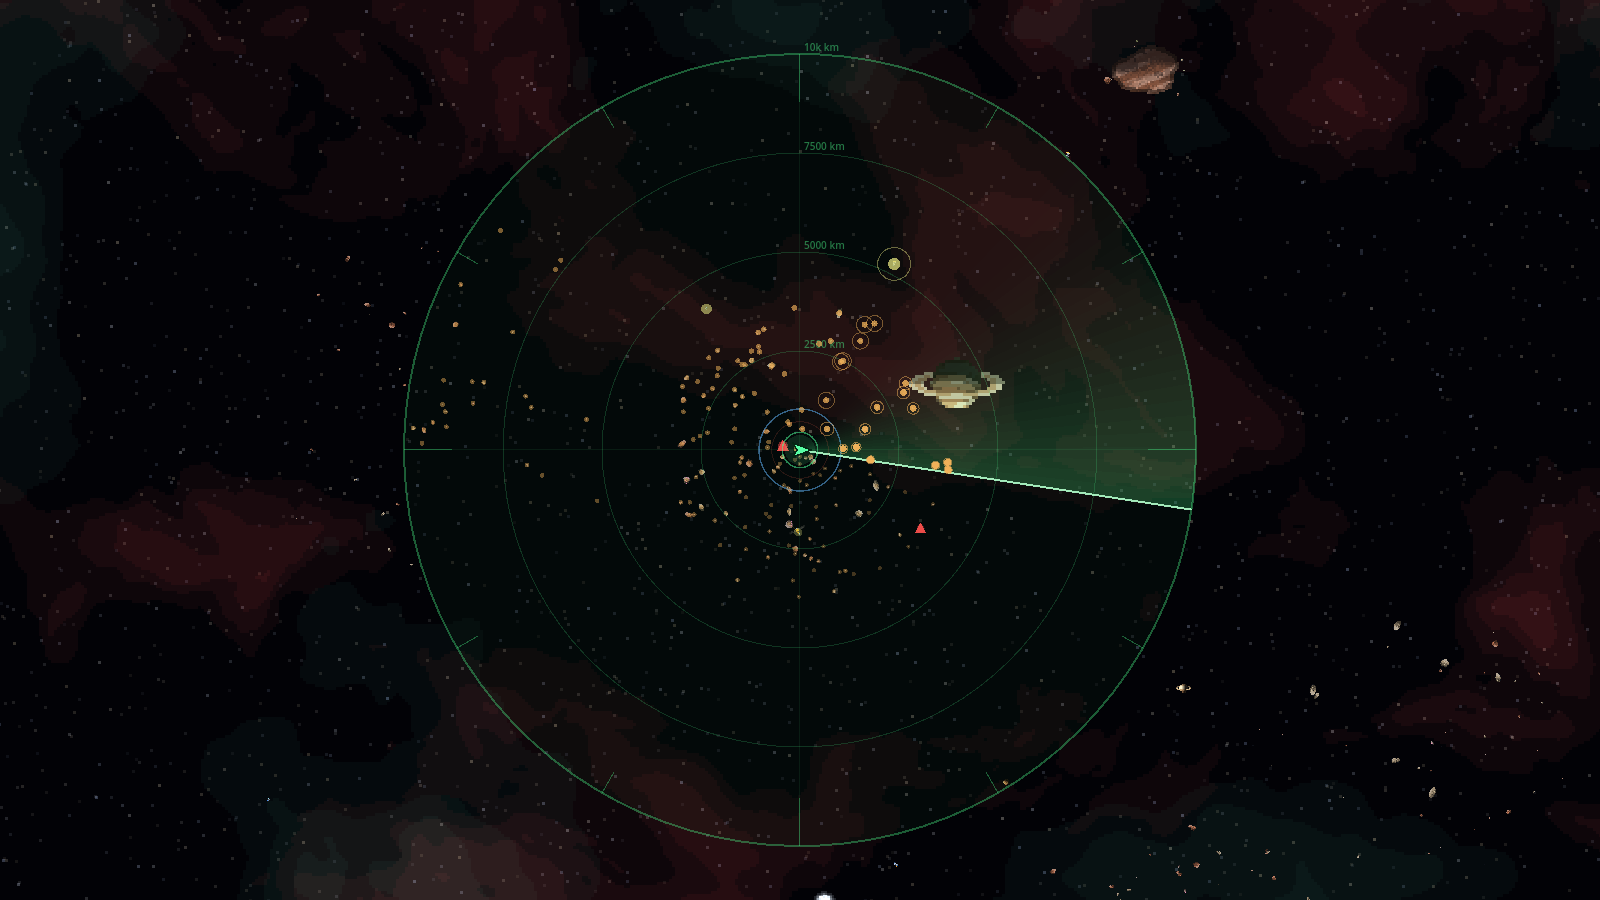
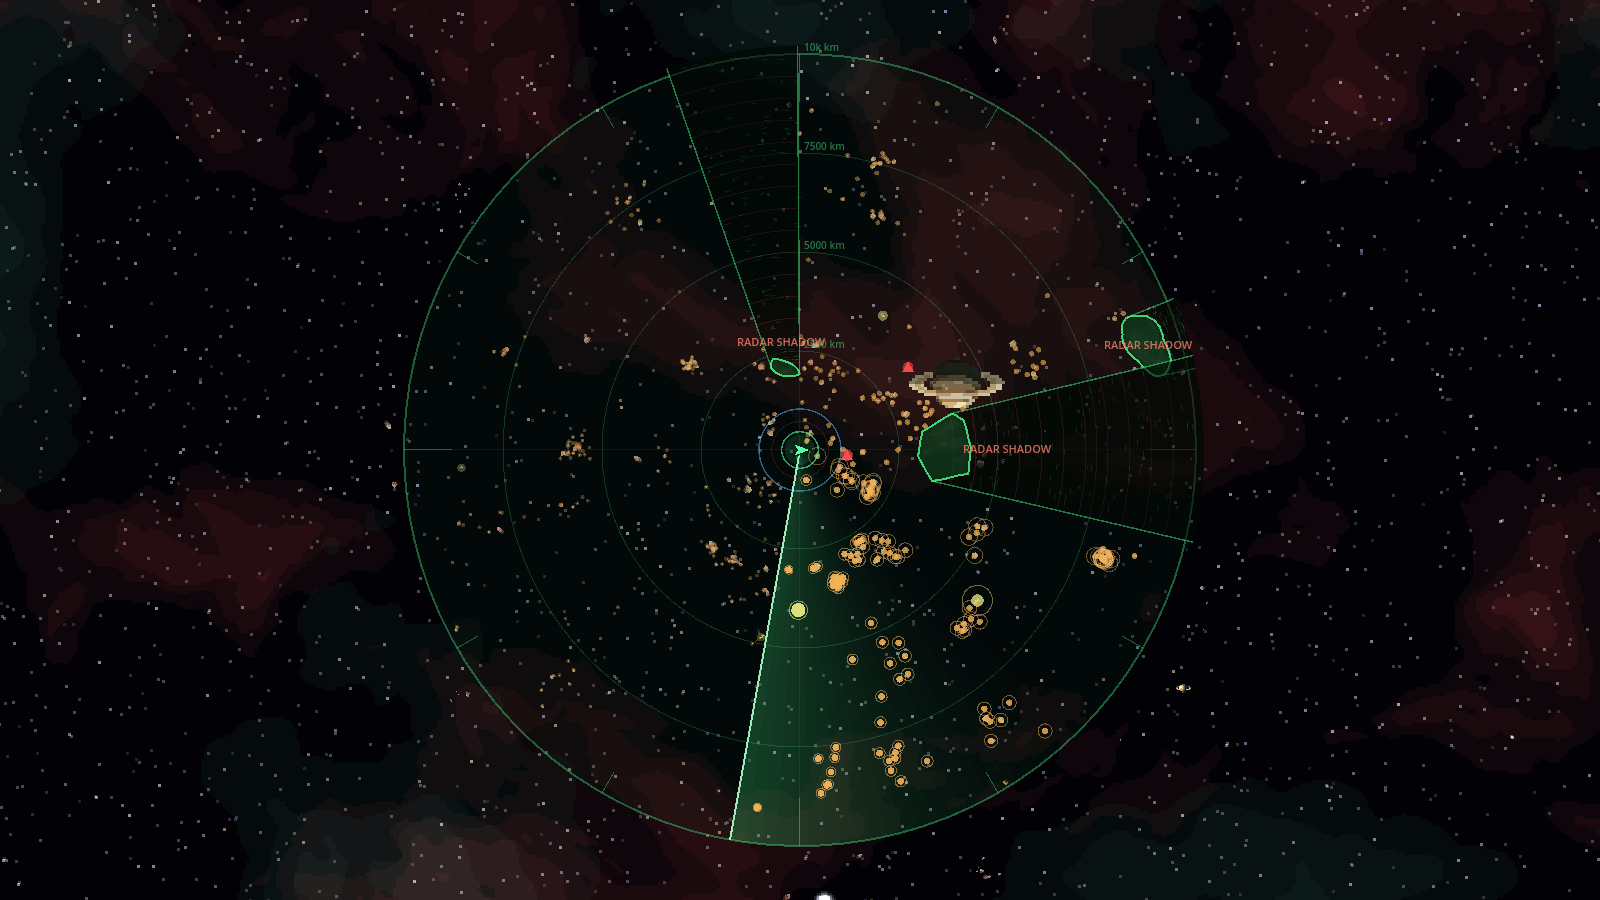
alpha 0.6.35.4: compact structured asteroid fields, more colossi

diff --git a/Roadmap.md b/Roadmap.md
@@ -17,7 +17,7 @@ Sternenfront ist ein Einzelspieler-Spiel mit zuschaltbarem Koop – wie Valheim 
 
 ## Aktueller Stand
 
-Das Spiel ist ein umfangreicher Einzelspieler-Prototyp in Godot 4.3. Phase 0 und Phase 0.5 Teil 1 bis 3 sind abgeschlossen; Teil 4 (Module and Internal Ship Parts Rework) läuft – Pakete 19 bis 24 fertig, Pakete 25a (KHI-Bergbauschiffe), 25b (Kanayama-maru), 25c (Maison Aurelle), 25d (Hadrian Dynamics), 25e (Concord Fleetworks), 25f (Forge of Return) und 25g (Axiom Astronautics) fertig – damit sind alle Manufakturen gebaut; Paket 26 (Stationstyp 0: Raststationen mit Landeplattformen) fertig; Paket 27 (Stationsübersicht, Ausrüster, Kurzbeschreibungen, Geschwindigkeit) fertig – damit sind alle Pakete von Teil 4 umgesetzt. Code-Review von Teil 4 gemacht (Bericht `reviews/teil4_review.md`), alle Befunde sind abgearbeitet (0.4.25.46 und 0.4.25.47) – Teil 4 abgeschlossen. **Teil 5 läuft:** Paket 28a (Audio-Grundgerüst), die Menüsteuerung per Tastatur und Paket 28 (Pilot & Charaktererstellung) und Paket 29 (Fähigkeiten + Pilot-Fenster) fertig, Fortschritts-Mechanik am 7. Nov neu entschieden (Fähigkeiten automatisch, Pilotenlevel, Perks, Skilltree über Leistungen); Paket 30 (Perks, Skilltree über Leistungen, Baupläne) fertig und der Skilltree in 0.5.30.2 als gezeichneter Baum nach Tätigkeiten neu gebaut (alles kaufbar, nutzbar erst mit Kachel), Paket 31 (Crew-System & The Bar, mit 32 zusammengelegt) fertig, Paket 31a (Game Over: Rettungskapseln, Rückkauf, Respawn) fertig, Paket 33 (Wingmen und Citadel-Plattform) fertig, Paket 34 (Codex-Einträge, Sammlung, berüchtigte Piraten als Charaktere mit Wild-West-Steckbrief) fertig – damit sind alle Pakete von Teil 5 umgesetzt. Code-Review von Teil 5 gemacht (Bericht `reviews/teil5_review.md`), alle Befunde in 0.5.34.4 behoben – **Teil 5 abgeschlossen**. **Teil 6 läuft:** Paket 35 (Systeme ×3, Asteroiden- und Kuipergürtel, neue Asteroidenfelder, mehr Verkehr, Ladebildschirm und Vorladen) fertig. Netzwerk fehlt noch. Teile 5–9 sind geplant (aus dem Roadmap-Entwurf übernommen, zuletzt am 7. Nov 2026: Teile 8 und 9, Audio-Grundgerüst 28a, Lade-Grundlagen in Paket 35, Code-Review am Ende jedes Teils), Phase 1 und 2 getauscht (erst Story & Endgame, dann Koop). Version alpha 0.6.35.3. Stand 8. November 2026.
+Das Spiel ist ein umfangreicher Einzelspieler-Prototyp in Godot 4.3. Phase 0 und Phase 0.5 Teil 1 bis 3 sind abgeschlossen; Teil 4 (Module and Internal Ship Parts Rework) läuft – Pakete 19 bis 24 fertig, Pakete 25a (KHI-Bergbauschiffe), 25b (Kanayama-maru), 25c (Maison Aurelle), 25d (Hadrian Dynamics), 25e (Concord Fleetworks), 25f (Forge of Return) und 25g (Axiom Astronautics) fertig – damit sind alle Manufakturen gebaut; Paket 26 (Stationstyp 0: Raststationen mit Landeplattformen) fertig; Paket 27 (Stationsübersicht, Ausrüster, Kurzbeschreibungen, Geschwindigkeit) fertig – damit sind alle Pakete von Teil 4 umgesetzt. Code-Review von Teil 4 gemacht (Bericht `reviews/teil4_review.md`), alle Befunde sind abgearbeitet (0.4.25.46 und 0.4.25.47) – Teil 4 abgeschlossen. **Teil 5 läuft:** Paket 28a (Audio-Grundgerüst), die Menüsteuerung per Tastatur und Paket 28 (Pilot & Charaktererstellung) und Paket 29 (Fähigkeiten + Pilot-Fenster) fertig, Fortschritts-Mechanik am 7. Nov neu entschieden (Fähigkeiten automatisch, Pilotenlevel, Perks, Skilltree über Leistungen); Paket 30 (Perks, Skilltree über Leistungen, Baupläne) fertig und der Skilltree in 0.5.30.2 als gezeichneter Baum nach Tätigkeiten neu gebaut (alles kaufbar, nutzbar erst mit Kachel), Paket 31 (Crew-System & The Bar, mit 32 zusammengelegt) fertig, Paket 31a (Game Over: Rettungskapseln, Rückkauf, Respawn) fertig, Paket 33 (Wingmen und Citadel-Plattform) fertig, Paket 34 (Codex-Einträge, Sammlung, berüchtigte Piraten als Charaktere mit Wild-West-Steckbrief) fertig – damit sind alle Pakete von Teil 5 umgesetzt. Code-Review von Teil 5 gemacht (Bericht `reviews/teil5_review.md`), alle Befunde in 0.5.34.4 behoben – **Teil 5 abgeschlossen**. **Teil 6 läuft:** Paket 35 (Systeme ×3, Asteroiden- und Kuipergürtel, neue Asteroidenfelder, mehr Verkehr, Ladebildschirm und Vorladen) fertig. Netzwerk fehlt noch. Teile 5–9 sind geplant (aus dem Roadmap-Entwurf übernommen, zuletzt am 7. Nov 2026: Teile 8 und 9, Audio-Grundgerüst 28a, Lade-Grundlagen in Paket 35, Code-Review am Ende jedes Teils), Phase 1 und 2 getauscht (erst Story & Endgame, dann Koop). Version alpha 0.6.35.4. Stand 8. November 2026.
 
 | Bereich | Stand |
 | --- | --- |
@@ -1459,6 +1459,7 @@ Jedes Paket mit eigenen Debug-Funktionen (z. B. zu jedem Systemtyp springen, Ste
 - [x] **Systeme ×3:** Radius 6 Mio. km (Tore bei 5,7 Mio.), Planetenbahnen, Anomalien, Havens, Wegstationen und Spawnpunkte mitskaliert (`Universe.SCALE`); Warp-Grundtempo 150.000 → 240.000 km/s – ein Warp quer durchs System dauert etwa 20–30 s.
 - [x] **Asteroidengürtel** (80 % der Systeme, zwischen den Gesteinsplaneten und dem ersten Gasriesen) und **Kuipergürtel** (70 %, außen bei ~84 % des Radius): auf der Systemkarte als Band aus feinen Körnern, aus der Nähe ziehen **dunklere Brocken mit Parallaxe im Hintergrund** vorbei (nicht abbaubar).
 - [x] **Asteroidenfelder neu:** Metall- und Gesteinsfelder liegen **im Asteroidengürtel**, Eisfelder **im Kuipergürtel** (ohne Gürtel wie bisher in Bahnzonen). Radius 20.000–40.000 km statt 10.000–16.000, im Schnitt dichter (≈ 0,22 Brocken je 1.000 km², eng geklumpt) und in **fünf Stilen**: Clustered, Band (entlang der Bahn gestreckt), Dense Core (dichter Kern mit mehr großen Brocken), Boulder Field (wenige große) und Gravel Field (viele kleine). Der Stil steht im Feldnamen.
+- [x] **0.6.35.4 (Wunsch Luz):** Felder **kompakter und strukturierter** – Radius 12.000–22.000 km, darin viele kleine Strukturen (dichte Knoten, Haufen, Ketten) mit freien Flächen dazwischen; etwa 0,9 Brocken je 1.000 km², an manchen Stellen sehr dicht. **Mehr Colossi:** jedes Feld hat jetzt 3–5 (in gesetzlosen Systemen einen mehr), über das Feld verteilt.
 - [x] **Mehr Verkehr:** Shuttles, Bergbauschiffe, wartende Frachter, Feld- und Torwachen, Piraten etwa anderthalbfach; Obergrenze 60 → 90 Schiffe je System.
 - [x] **Laden:** kurzer **Ladebildschirm** beim Start aus dem Hauptmenü; dahinter werden alle Asteroidenbilder des Systems vorab erzeugt und der **Colossus-Shader vorkompiliert** – der Ruckler beim Einfliegen in Felder mit Colossi ist weg. Beim **Hypersprung** wird das Zielsystem während des Tunnels vorbereitet. Unsichtbare Asteroiden kosten keine Rechenzeit mehr.
 - [x] **0.6.35.2/.3:** Die Systemkarte ist wieder **auf das eigene Schiff zentriert** – Godots Standard-Kameragrenze von ±10 Mio. km hatte die Karte der größeren Systeme zur Seite geschoben (die kurzzeitige Zentrierung auf den Stern in 0.6.35.2 ist wieder raus).

diff --git a/CHANGELOG.md b/CHANGELOG.md
@@ -3,6 +3,10 @@
 Versions follow **alpha Phase.Teil.Paket.laufende Nummer** (see Roadmap.md → Arbeitsweise & Übergabe).
 Every update gets its own entry, a commit and a git tag `v<version>`.
 
+## alpha 0.6.35.4 – 2026-11-08
+
+**Asteroid fields:** more compact (12,000–22,000 km) and made of many small structures – dense knots, patches and streams – with open space between them and some very dense spots. Every field now has 3–5 colossi (one more in lawless space).
+
 ## alpha 0.6.35.3 – 2026-11-08
 
 **System map centred on your ship again** (as before); the camera-limit fix from 0.6.35.2 stays.
